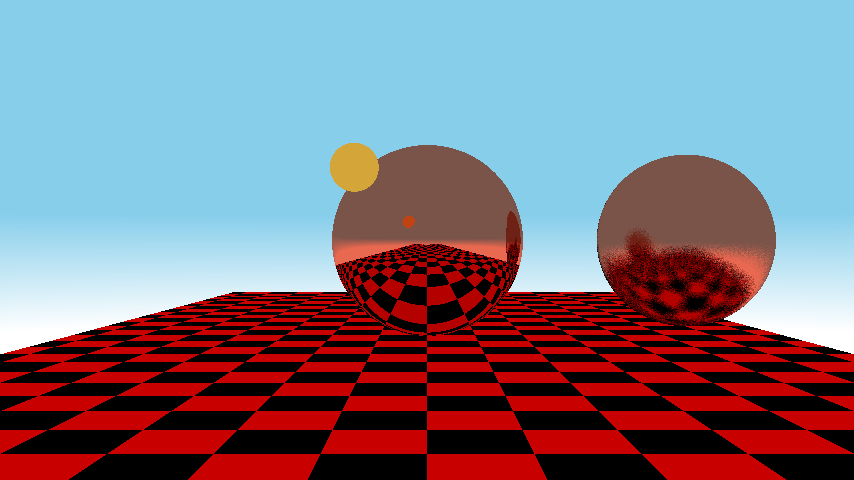
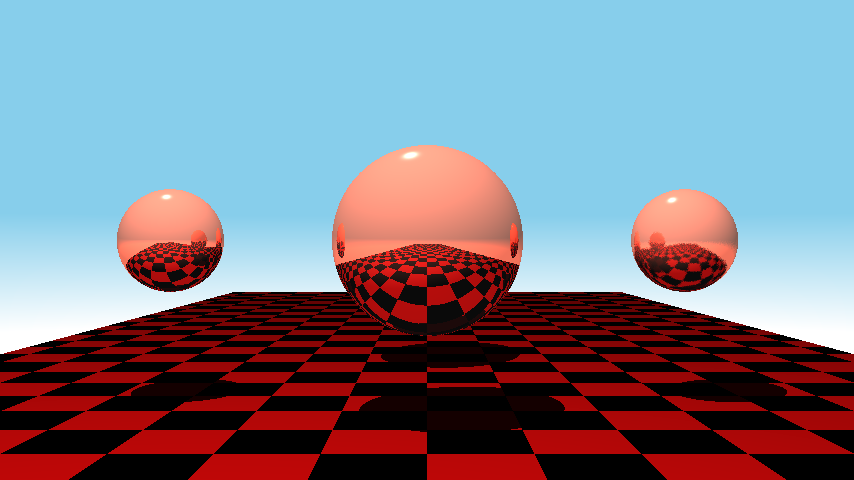
Add lighting; the colour mixing could use some work

Changed region(s): [[0.0, 0.2812, 1.0, 0.9688]]

diff --git a/src/main.rs b/src/main.rs
@@ -29,37 +29,82 @@ fn main() {
 
     let world = vec![
         WorldObject {
-            position : WorldPoint::new(2f32, 0.6f32, -0.6f32),
+            position : WorldPoint::new(-2f32, 10f32, -2f32),
             shape: Box::new(Sphere {
-                radius : 0.2f32
+                radius : 0.02f32
             }),
             material : Box::new(FlatMaterial {
-                colour: Colour::new(212, 165, 57),
-            })
+                colour: Colour::new(200,200,200),
+            }),
+            light: true
         },
         WorldObject {
             position : WorldPoint::new(4f32, 0f32, 0f32),
             shape: Box::new(Sphere {
                 radius : 1f32
             }),
-            material : Box::new(ReflectMaterial {
-                base: Box::new(FlatMaterial {
+            material : Box::new(LitMaterial {
+                absorb: Box::new(FlatMaterial {
                     colour: Colour::new(232, 104, 80),
                 }),
+                emit: Box::new(FlatMaterial { colour: Colour::new(10, 10, 10) }),
+                shininess: 100f32,
+                specular_amount: 1f32,
+                reflectivity: 1f32,
                 roughness: 1f32
-            })
+            }),
+            light: false
+        },
+        WorldObject {
+            position : WorldPoint::new(8f32, 0f32, 0f32),
+            shape: Box::new(Sphere {
+                radius : 1f32
+            }),
+            material : Box::new(LitMaterial {
+                absorb: Box::new(FlatMaterial {
+                    colour: Colour::new(232, 104, 80),
+                }),
+                emit: Box::new(FlatMaterial { colour: Colour::new(10, 10, 10) }),
+                shininess: 100f32,
+                specular_amount: 1f32,
+                reflectivity: 1f32,
+                roughness: 1f32
+            }),
+            light: false
         },
         WorldObject {
             position : WorldPoint::new(5f32, 0f32, 3f32),
             shape: Box::new(Sphere {
-                radius : 1f32
+                radius : 0.6f32
             }),
-            material : Box::new(ReflectMaterial {
-                base: Box::new(FlatMaterial {
+            material : Box::new(LitMaterial {
+                absorb: Box::new(FlatMaterial {
                     colour: Colour::new(232, 104, 80),
                 }),
-                roughness: 300f32
-            })
+                emit: Box::new(FlatMaterial { colour: Colour::new(10, 10, 10) }),
+                shininess: 100f32,
+                specular_amount: 1f32,
+                reflectivity: 1f32,
+                roughness: 100f32
+            }),
+            light: false
+        },
+        WorldObject {
+            position : WorldPoint::new(5f32, 0f32, -3f32),
+            shape: Box::new(Sphere {
+                radius : 0.6f32
+            }),
+            material : Box::new(LitMaterial {
+                absorb: Box::new(FlatMaterial {
+                    colour: Colour::new(232, 104, 80),
+                }),
+                emit: Box::new(FlatMaterial { colour: Colour::new(10, 10, 10) }),
+                shininess: 100f32,
+                specular_amount: 1f32,
+                reflectivity: 1f32,
+                roughness: 1f32
+            }),
+            light: false
         },
         WorldObject {
             position : WorldPoint::new(3f32, -2f32, 0f32),
@@ -67,11 +112,23 @@ fn main() {
                 width: 50f32,
                 height: 15f32
             }),
-            material : Box::new(CheckerboardMaterial {
-                colour1: Colour::new(200, 0, 0),
-                colour2: Colour::new(0, 0, 0),
-                repeat: 1f32
-            })
+            material : Box::new(LitMaterial {
+                absorb: Box::new(CheckerboardMaterial {
+                    colour1: Colour::new(230, 10, 10),
+                    colour2: Colour::new(0, 0, 0),
+                    repeat: 1f32
+                }),
+                emit: Box::new(CheckerboardMaterial {
+                    colour1: Colour::new(20, 0, 0),
+                    colour2: Colour::new(0, 0, 0),
+                    repeat: 1f32
+                }),
+                shininess: 10f32,
+                specular_amount: 0f32,
+                reflectivity: 0f32,
+                roughness: 1f32
+            }),
+            light: false
         },
         WorldObject {
             position : WorldPoint::new(0f32, 0f32, 0f32),
@@ -83,8 +140,10 @@ fn main() {
                 from_y: -10f32,
                 to: Colour::new(135, 206, 235),
                 to_y: 3f32
-            })
-        },];
+            }),
+            light: false
+        },
+    ];
 
     for (x,y,pixel) in imagebuf.enumerate_pixels_mut() {
         let colour = get_pixel(x as f32 / width as f32 - 0.5,

diff --git a/src/world.rs b/src/world.rs
@@ -76,7 +76,8 @@ pub trait Material {
 pub struct WorldObject {
     pub position : WorldPoint,
     pub shape : Box<Shape>,
-    pub material : Box<Material>
+    pub material : Box<Material>,
+    pub light : bool
 }
 
 impl WorldObject {
@@ -90,6 +91,11 @@ impl WorldObject {
 
     pub fn contains(&self, pos : WorldPoint) -> bool {
         self.shape.contains(self, pos)
+    }
+
+    pub fn reflect_ray(&self, at : WorldPoint, incident : WorldVec) -> WorldVec {
+        let norm = self.normal(at);
+        incident-norm*2f32*incident.dot(norm)
     }
 }
 
@@ -137,26 +143,70 @@ impl Material for GradientMaterial {
     }
 }
 
-pub struct ReflectMaterial {
-    pub roughness: f32,
-    pub base : Box<Material>
+pub struct LitMaterial {
+    pub emit : Box<Material>,
+    pub absorb: Box<Material>,
+    pub shininess : f32,
+    pub specular_amount : f32,
+    pub reflectivity : f32,
+    pub roughness : f32
 }
 
-impl Material for ReflectMaterial {
+impl Material for LitMaterial {
     fn colour(&self, obj : &WorldObject, at : WorldPoint,
-              incident : WorldVec, incident_from : WorldPoint, world : &Vec<WorldObject>, depth : u8) -> Colour {
+              incident : WorldVec, incident_from : WorldPoint,
+              world : &Vec<WorldObject>, depth : u8) -> Colour {
         if depth > 3 {
             return Colour::new(0,0,0);
         }
 
         let norm = obj.normal(at);
-        let ray = (incident-norm*2f32*incident.dot(norm)).normalize();
-        let reflect = cast_rays(at, ray, depth+1, world, self.roughness).to_f32();
-        let base = self.base.colour(obj, at, incident, incident_from, world, depth).to_f32();
+        let emitted = self.emit.colour(obj, at, incident, incident_from, world, depth+1).to_f32();
+        let base = self.absorb.colour(obj, at, incident, incident_from, world, depth+1).to_f32();
 
-        Colour::new((reflect.x*base.x/255f32).min(255f32).max(0f32) as u8,
-                    (reflect.y*base.y/255f32).min(255f32).max(0f32) as u8,
-                    (reflect.z*base.z/255f32).min(255f32).max(0f32) as u8)
+        let mut absorbed = TypedPoint3D::new(0f32,0f32,0f32);
+        let mut specular = TypedPoint3D::new(0f32,0f32,0f32);
+
+        for s in world {
+            if !s.light || s as *const _ == obj as *const _ {
+                continue;
+            }
+
+            // Assume that the source is a point light
+            let ray = (s.position - at).normalize();
+            match trace(at+ray*0.01f32, ray, world) {
+                Some((intersected, t)) => {
+                    if s as *const _ != intersected as *const _ {
+                        continue;
+                    }
+                    let light_colour = s.material
+                        .colour(s, at + ray * t, ray, at + ray * 0.01f32, world, depth + 1)
+                        .to_f32();
+
+                    absorbed = absorbed + light_colour * ray.dot(norm).max(0f32);
+                    specular = specular + light_colour
+                        * ray.dot(obj.reflect_ray(at, ray*-1f32)).max(0f32).powf(self.shininess);
+                },
+                _ => ()
+            }
+        }
+
+        if self.reflectivity > 0f32 {
+            let reflected_ray = obj.reflect_ray(at, incident);
+            absorbed = absorbed
+                + cast_rays(at, reflected_ray, depth + 1, world, self.roughness)
+                .to_f32() * self.reflectivity;
+        }
+
+        let reflected = TypedPoint3D::new(absorbed.x*base.x/255f32,
+                                          absorbed.y*base.y/255f32,
+                                          absorbed.z*base.z/255f32);
+
+        (emitted + specular*self.specular_amount + reflected)
+            .max(TypedPoint3D::new(0f32,0f32,0f32))
+            .min(TypedPoint3D::new(255f32,255f32,255f32))
+            .round()
+            .cast::<u8>().unwrap()
     }
 }
 
